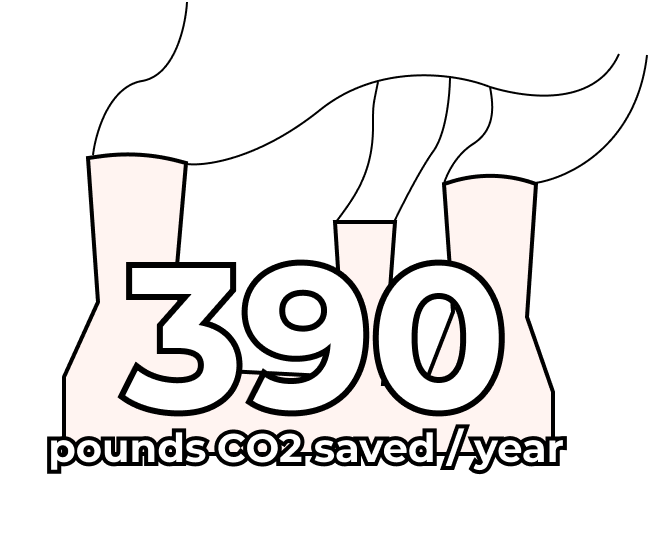
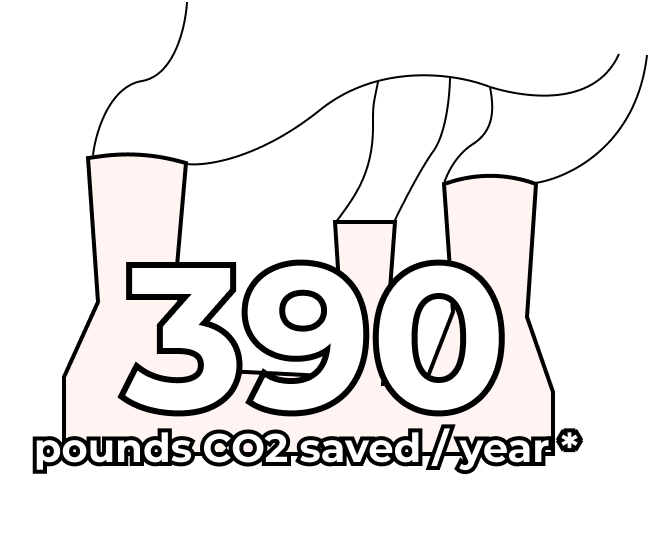
newest blog source deploy Thu Apr  8 19:09:48 PDT 2021

Changed region(s): [[0.0309, 0.7776, 0.8951, 0.8972]]

diff --git a/layouts/_default/solarkit.html b/layouts/_default/solarkit.html
@@ -107,7 +107,7 @@
       </div>
       <div class="col-md-6 p-2 p-md-5">
           <h2 >Do something about global warming</h2>
-          <p class="lead">That's the equivalent of not driving 500 miles a year.<br/>
+          <p class="lead">390 pounds is the equivalent of not driving 500 miles a year.<br/>
             ⬇ Helps power your fridge, A/C unit or TV with sunlight instead of the gas-powered grid.<br/>
             ⬇ If all apartments in the US did this, it'd be enough to offset 1/8th of our emissions.</p>
             <small>* Depends on state (electricity mix and lat/long).</small>
